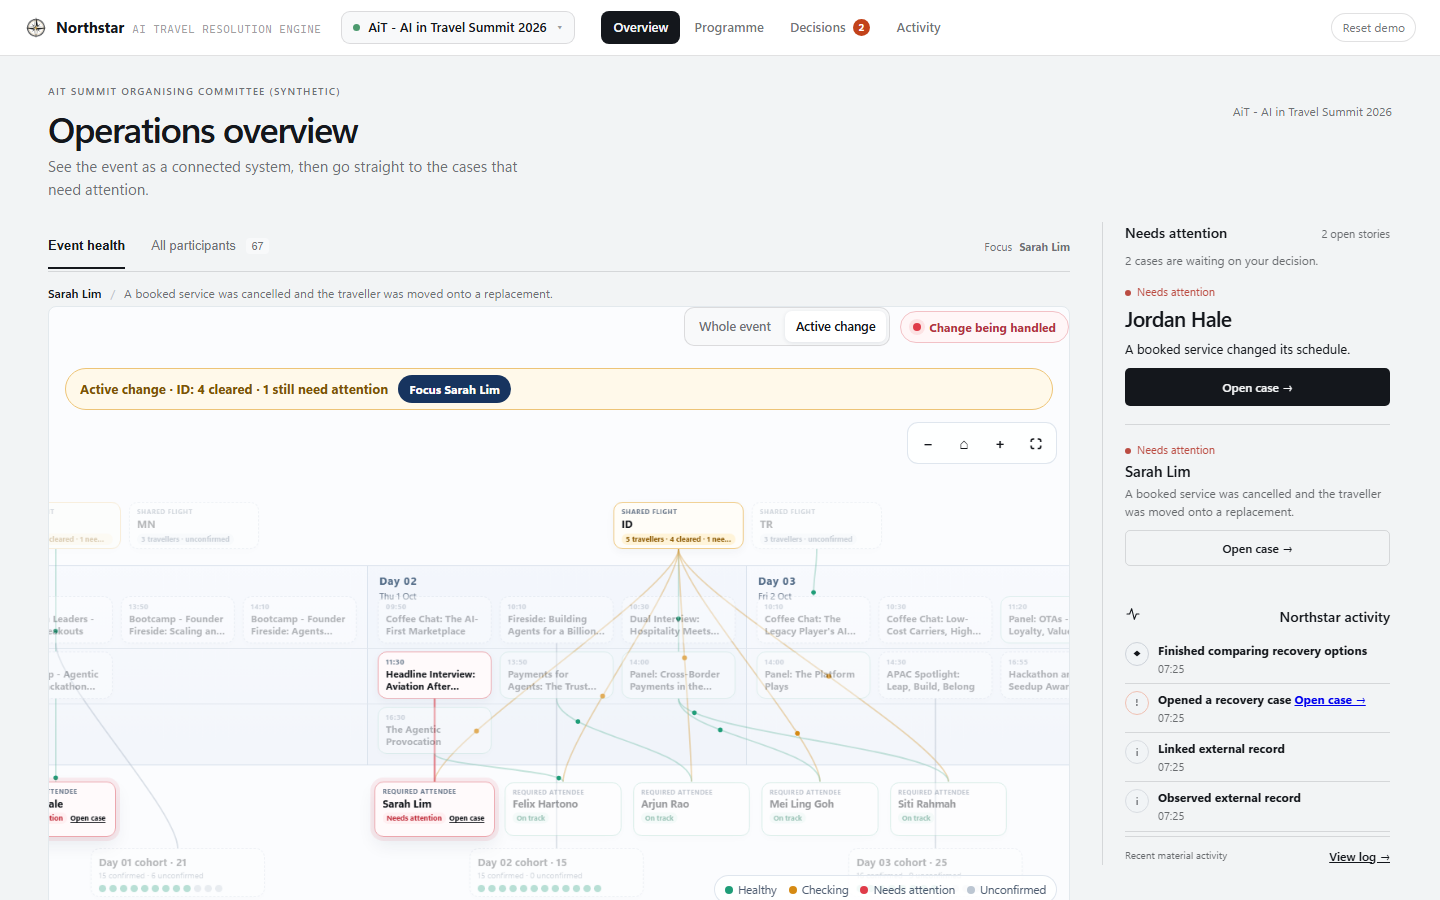
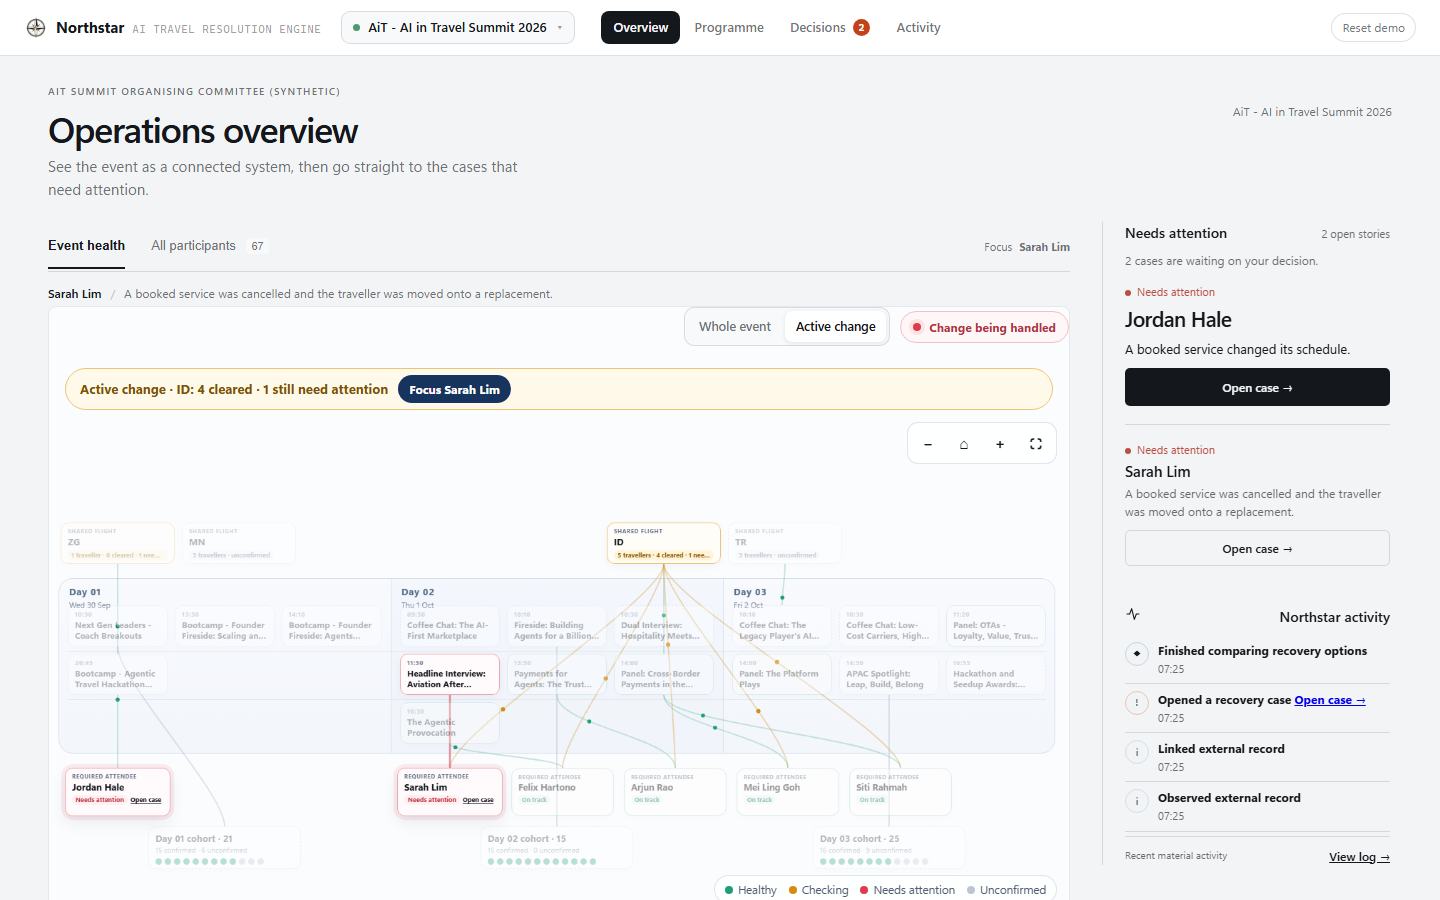
docs(ui): refresh V5 acceptance evidence after the graph fixes
Recaptured at 1440x900 with the edge-routing, node-text and camera fixes in
place, plus a 2x detail shot of the Jordan edge routing.

Records the two limits honestly rather than claiming a clean sweep: the fixed
camera margin does not generalise to every viewport (6 nodes still clip at
1280x860, and no constant clears it there without inverting the two views),
and the node detail line is now clamped to one line, so a flight card no
longer shows its destination inline.

diff --git a/docs/work/operator-workspace-v5-opus-visual-acceptance/README.md b/docs/work/operator-workspace-v5-opus-visual-acceptance/README.md
@@ -32,11 +32,13 @@ to use `renderEventOverviewGraph()` and `renderFocusedCaseGraph()`.
 | 3 | `03-jordan-case-recommendation-1440.png` | Case composition on a second, non-programme case: compact header with breadcrumb above the title, named graph topline carrying the Current/Original control, V5.6 graph prominent and not squashed, sticky rail beside the graph carrying recommendation → decision → activity → whole-trip state. |
 | 4 | `04-sarah-case-recommendation-1440.png` | Same composition on the programme case. Approval status is legible; new spend and displaced-booking loss stay separate and read "Not compared"; unknown stays unknown; whole trip reads "Not yet recovered" — recovery is not visually implied. |
 | 5 | `05-sarah-case-full-page-1440.png` | Full scroll: Recommended recovery visually outranks Other options and Checks & sources; itinerary and commitment blocks are hairline-separated rather than nested panels; the rail stays useful while scrolling. |
+| 7 | `07-jordan-graph-edge-routing-detail.png` | 2x zoom on the Jordan case graph: the transitive inbound->onward edge bows clear of the Arrival timing card and enters the onward flight on its own anchor, instead of passing behind the card and converging on a single anchor (which read as a phantom doubled connection). Node detail text clips on a whole line with an ellipsis. |
 | 6 | `06-sarah-case-other-options-1440.png` | Rejected options that present identically collapse into one row with a count ("Rejected · 4 options") and one grouped evaluation disclosure — presentation-only grouping, nothing dropped. Negative time is stated as a shortfall ("65 min short"). |
 
 ## Checks run at this state
 
-- `test/operator-ui-convergence.test.ts` — 16/16 pass.
+- `test/operator-ui-convergence.test.ts`, `r2-graph-renderer`, `r3-causal-spine-layout`,
+  `eventOverview`, `operator-ui-camera` — 61/61 pass.
 - `npm run typecheck` — clean.
 - `npm run lint` — 225 pre-existing errors, **identical to the pristine base**; zero introduced.
 - `node scripts/anti-hardcoding-gate.mjs` — `VERDICT: CLEAN`.
@@ -65,17 +67,38 @@ The approved V5 reference shows "Move the programme commitment" for this case.
 The strategy title was **not** frontend-relabelled and the candidates were **not**
 reordered. This is planner selection, not presentation.
 
-**INVESTIGATE — Overview graph framing.** In the graph's own "Active change" view,
-6 of 30 nodes are cut mid-card at the viewport edges (4 left, 2 right), including a
-required-attendee card sliced in half. Switching the graph to "Whole event" clips
-nothing. This is the graph's own focus-framing rect, not a container-size problem,
-so no page CSS was used to mask it.
+**FIXED (was INVESTIGATE) — Overview graph framing.** Previously 6 of 30 nodes were
+cut mid-card at the viewport edges in "Active change". `fitOverviewCamera` now takes
+an optional world-space margin (default 0, so all existing callers are unchanged) and
+the change/focus framing passes 32. Measured at 1440x900: 6 -> 0 clipped, Active
+change 0.713 vs whole event 0.700, whole-event transform byte-identical.
 
-**INVESTIGATE — Case graph vertical fit.** The V5.6 scene rect reserves roughly
-190px of empty space above its content, so the nodes sit low in the viewport and the
-faded context row meets the "drag to pan" hint at the bottom edge. Reducing the
-container height clips content below ~470px, so the slack is in the scene rect, not
-the container.
+Known limit, stated rather than hidden: a fixed margin does not generalise to every
+viewport. Measured clipped-node counts at margin 32 are 0 at 1920x1080, 0 at
+1440x900, 0 at 1100x900, but **6 at 1280x860** — and at 1280 no constant clears the
+clipping without zooming out past the whole-event scale. The graph is also pannable,
+so a user who drags will see partially cut cards at the frame edge regardless. A
+general fix needs a different mechanism (iteratively expanding the box until no node
+straddles the viewport, or an edge fade), not a larger constant.
+
+**PARK — Case graph vertical fit.** The V5.6 scene rect reserves roughly 190px of
+empty space above its content, so the nodes sit low in the viewport and the faded
+context row meets the "drag to pan" hint at the bottom edge. Reducing the container
+height clips content below ~470px, so the slack is in the scene rect, not the
+container. Not addressed in this pass.
+
+**FIXED — Case graph edge routing and node text.** Edges passing behind a card:
+6 -> 0 (Jordan), 2 -> 0 (Sarah), both panels. Node text now clips on a whole line
+boundary with an ellipsis; previously `.fg-detail` was `flex: 1 1 0`, so the flex
+algorithm set its height and `-webkit-line-clamp` never applied, leaving the card's
+own `overflow: hidden` to cut through the middle of a text row.
+
+Cost, stated plainly: the detail line is now clamped to ONE line on every card, so a
+flight card reads "Los Angeles International ->..." and no longer shows the
+destination inline. The full string is still on the node's native `title` attribute
+and `aria-label`, and in the node inspector. Restoring the second line needs card
+height, which `SIZES` in `graph/layout.ts` owns — a `normal` card has only ~8px of
+slack today against the ~13.4px a second line costs.
 
 **PARK — activity entries carry no source or subject.** Overview rail entries such as
 "Linked external record" / "Observed external record" are machine-derived fallbacks
